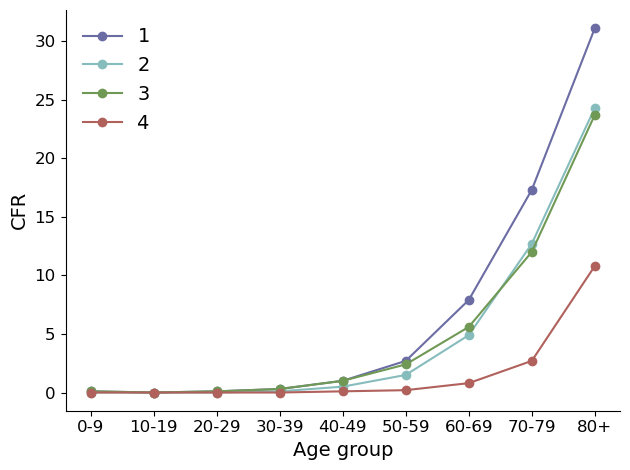
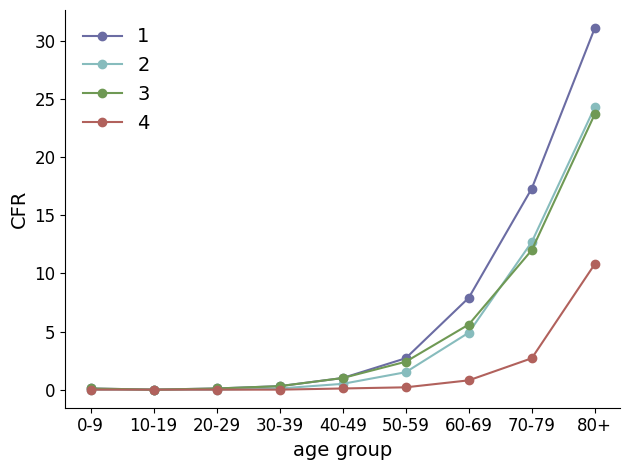
refractor: Remove df as an argument of plot_rates function in order not to load the dataframe whenever it's used elsewhere.

diff --git a/plot_scripts/results_severe_outcomes.py b/plot_scripts/results_severe_outcomes.py
@@ -107,11 +107,11 @@ def plot_stacked_histogram(df, ax, strat=strat, group_var='age_group', vary='cou
         y_offset = y_offset + counts_list 
         counter+=1
 
-def plot_counts_histograms(ax, strat=strat, vary='counts'):
+def plot_counts_histograms(ax, strat=strat, group_var='age_group', vary='counts'):
 
-    plot_stacked_histogram(df = df_hosp_perc, ax=ax[0])
-    plot_stacked_histogram(df = df_icu_perc, ax=ax[1])
-    plot_stacked_histogram(df = df_death_perc, ax=ax[2])
+    plot_stacked_histogram(df = df_hosp_perc, ax=ax[0], strat=strat, group_var=group_var, vary=vary)
+    plot_stacked_histogram(df = df_icu_perc, ax=ax[1], strat=strat, group_var=group_var, vary=vary)
+    plot_stacked_histogram(df = df_death_perc, ax=ax[2], strat=strat, group_var=group_var, vary=vary)
 
 
 vary='counts'
@@ -156,9 +156,9 @@ def plot_proportions_hist(ax):
                         outcome_var='death', prop_lower='death_lower', prop_upper='death_upper', side='right')
 
 # Rates
-def plot_rates(df, ax, var, var_name):
+def plot_rates(ax, var, var_name):
     for wave in range(1,5):
-        df_temp = df[df['wave'] == wave]
+        df_temp = df_rates[df_rates['wave'] == wave]
         ax.plot(df_temp['age_group'], df_temp[var], marker = 'o', label = wave, color = colors[wave-1])
     ax.set_xlabel('age group')
     ax.set_ylabel(var_name)
@@ -169,33 +169,33 @@ def plot_rates(df, ax, var, var_name):
 fig, ax = plt.subplots()
 var = 'CFR'
 var_name = 'CFR'
-plot_rates(df_rates, ax, var, var_name)
+plot_rates(ax, var, var_name)
 fig.savefig(FIG_PATH + f'{var}.png')
 
 # HCR
 fig, ax = plt.subplots()
 var = 'HCR'
 var_name = 'HCR'
-plot_rates(df_rates, ax, var, var_name)
+plot_rates(ax, var, var_name)
 fig.savefig(FIG_PATH + f'{var}.png')
 
 # HCR - I
 fig, ax = plt.subplots()
 var = 'HCR_I'
 var_name = 'HCR - ICU'
-plot_rates(df_rates, ax, var, var_name)
+plot_rates(ax, var, var_name)
 fig.savefig(FIG_PATH + f'{var}.png')
 
 # HFR - I
 fig, ax = plt.subplots()
 var = 'HFR'
 var_name = 'HFR'
-plot_rates(df_rates, ax, var, var_name)
+plot_rates(ax, var, var_name)
 fig.savefig(FIG_PATH + f'{var}.png')
 
 # HFR - I
 fig, ax = plt.subplots()
 var = 'HFR_I'
 var_name = 'HFR - ICU'
-plot_rates(df_rates, ax, var, var_name)
+plot_rates(ax, var, var_name)
 fig.savefig(FIG_PATH + f'{var}.png')
